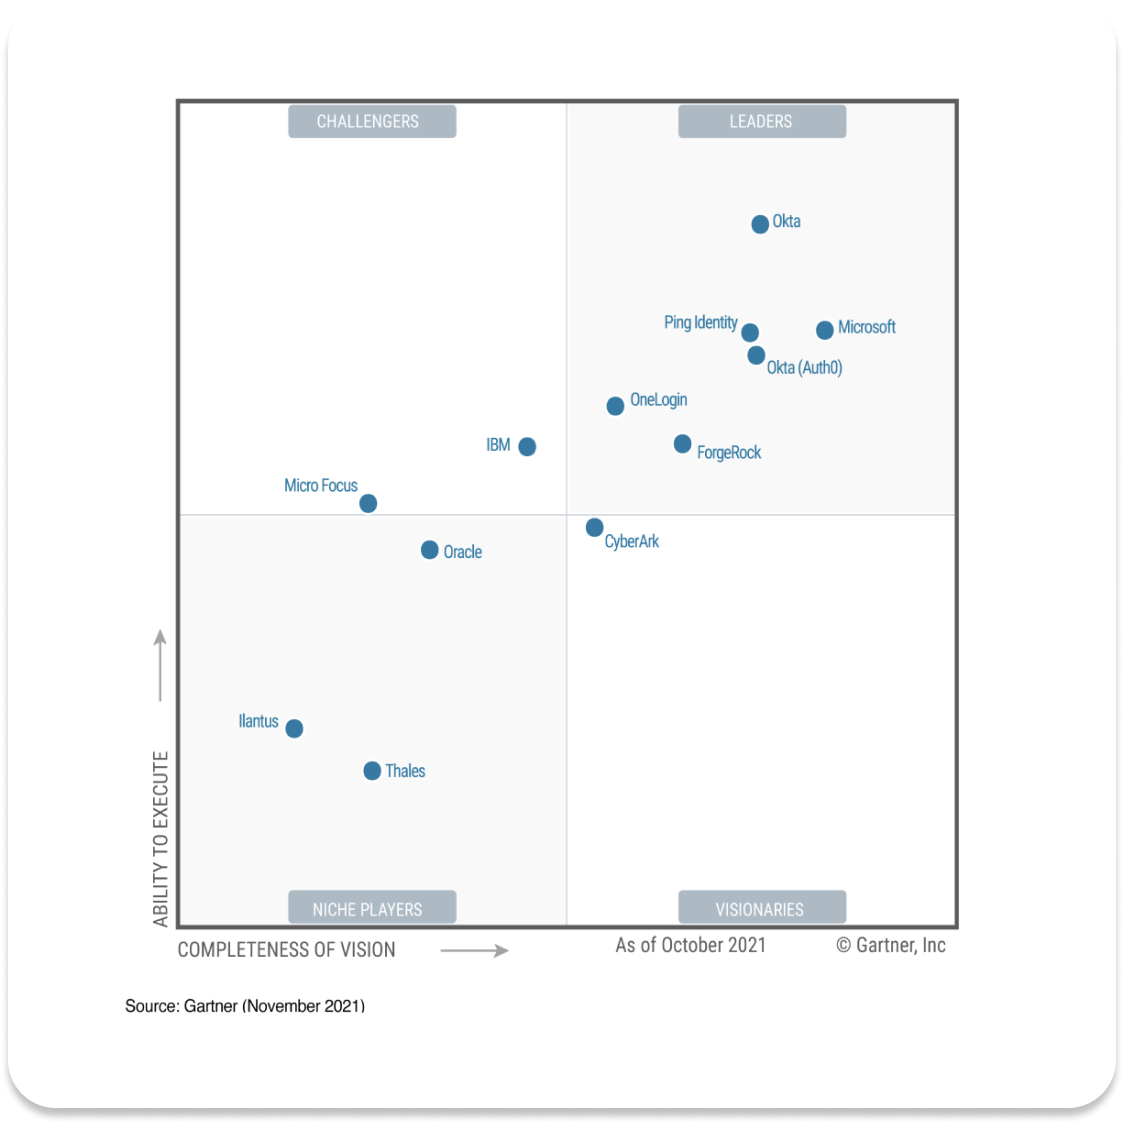
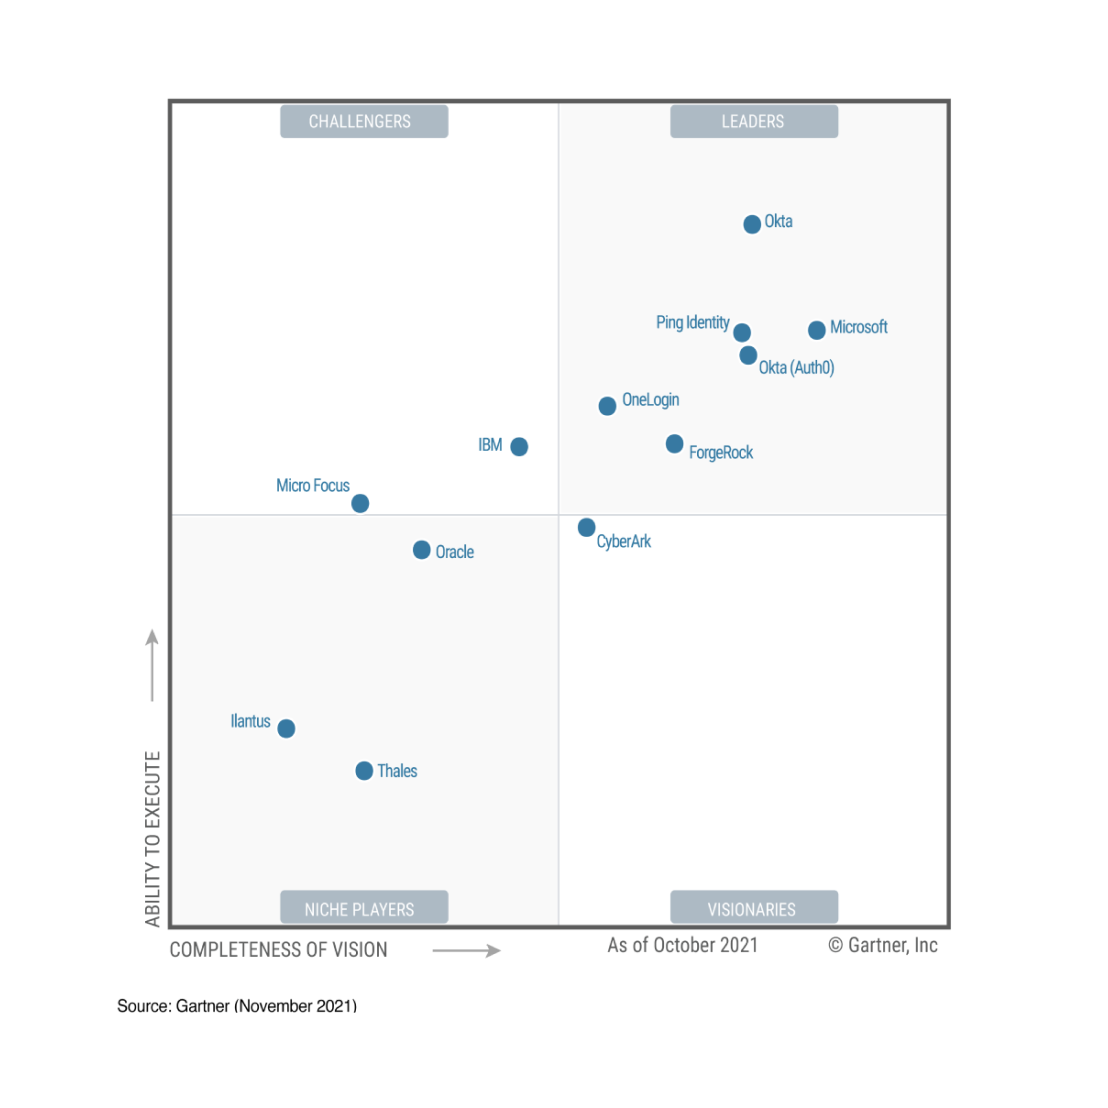
fin section-leader + adapted

diff --git a/src/index.html b/src/index.html
@@ -487,20 +487,20 @@
 
         </div>
         
-        <article class="ciam__information info-ciam">
-          <h3 class="info-ciam__title title title--fz48">It all starts with Customer Identity (CIAM)</h3>
-          <p class="info-ciam__text">
+        <article class="ciam__information info-block">
+          <h2 class="info-block__title title title--fz48">It all starts with Customer Identity (CIAM)</h2>
+          <p class="info-block__text">
             From improving customer experience through seamless sign-on to making MFA as easy as a click of a button – your login box must find the right balance between user convenience, privacy and security.<br><br>
         
             That’s why Okta and Auth0 have joined forces. Because we know together we can help you build a better <a href="#">Customer Identity (CIAM)</a> solution that will reduce security and compliance risks, improve your UX, and help your developers maximize their time.
           </p>
-          <div class="info-ciam__buttons">
-            <a href="" class="info-ciam__btn buttons__contact buttons">Start building
+          <div class="info-block__buttons">
+            <a href="" class="info-block__btn buttons__contact buttons">Start building
               <svg class="buttons__icon-arrow buttons__icon-arrow--white">
                 <use xlink:href="#arrow-right-s"></use>
               </svg>
             </a>
-            <a href="" class="info-ciam__btn buttons__white buttons">Learn more
+            <a href="" class="info-block__btn buttons__white buttons">Learn more
               <svg class="buttons__icon-arrow buttons__icon-arrow--black">
                 <use xlink:href="#arrow-right-s"></use>
               </svg>
@@ -521,8 +521,33 @@
         <video class="implement__video" preload="auto" no-controls autoplay loop playsinline muted>
           <source autoplay src="./assets/video/desktop.webm" type="video/webm">
         </video>
+      </div>      
+    </section>
+
+    <section class="main__leader leader">
+      <div class="leader__container container">
+        <div class="leader__block">
+          
+          <article class="leader__information info-block">
+            <img class="info-block__logo" src="./assets/svg/logo.svg" alt="logo">
+            <h2 class="info-block__title title title--fz48">Okta (Auth0) named a leader in Gartner® Magic Quadrant™ for Access Management</h2>
+          <p class="info-block__text">
+            Get Gartner’s 2021 overview of leading Access Management vendors
+          </p>
+          <div class="info-block__buttons">
+            <a href="" class="leader__button info-block__btn buttons__contact buttons">Learn more
+              <svg class="buttons__icon-arrow buttons__icon-arrow--white">
+                <use xlink:href="#arrow-right-s"></use>
+              </svg>
+            </a>
+          </div>
+          
+          </article>
+          <div class="leader__image">
+            <img src="./assets/images/leader.png" alt="leader">
+          </div>
+        </div>
       </div>
-      
       
     </section>
 

diff --git a/src/scss/blocks/_leader.scss b/src/scss/blocks/_leader.scss
@@ -1,0 +1,53 @@
+@use '../components/utils' as u;
+
+
+.leader {
+    //background: url(https://cdn.auth0.com/website/gartner/bg-desktop.svg) center center / cover no-repeat rgb(218, 223, 232);
+    background: linear-gradient(to right, #8377F3 0%, #e02cbf 19%, #8377F3 40%, #8377F3 60%, #e02cbf 83%, #8377F3 100%);
+    background-size: 200% 100%;
+    animation: bg 15s linear infinite;
+    padding: 130px 0px;
+    max-width: 1440px;
+    margin: 0 auto;
+    border-radius: 40px;
+    @include u.media('tablet-wide', max){
+        padding: 30px 0px;
+    }
+    &__container {
+        @include u.media('tablet-wide', max){
+            padding-left: 0;
+            padding-right: 0;
+        } 
+    }
+
+    &__block {
+        display: flex;
+        flex-direction: row;
+        align-items: center;
+        justify-content: space-between;
+        @include u.media('tablet-wide', max){
+            flex-direction: column;
+        }
+    }
+
+    &__information {
+        @include u.media('phone-wide', max){
+            margin-bottom: 56px;
+        }
+    }
+    &__button {
+        @include u.media('tablet-wide', max){
+            width: 100%;
+        }
+    }
+    &__image {
+        width: 554px;
+        height: 554px;
+        @include u.padding-hack(49%);
+        @include u.media('tablet-wide', max){
+            @include u.padding-hack(95%);
+            width: 90%;
+            
+        }
+    }
+}

diff --git a/src/scss/components/_animate.scss b/src/scss/components/_animate.scss
@@ -1,5 +1,58 @@
 @use 'utils' as u;
 
+//Slide ciam block
+@keyframes slide {
+    0% {
+        transform: translateX(0);
+    }
+
+    25% {
+        transform: translateX(0);
+    }
+
+    30% {
+        transform: translateX(-100%);
+    }
+
+    50% {
+        transform: translateX(-100%);
+    }
+
+    55% {
+        transform: translateX(-200%);
+    }
+
+    75% {
+        transform: translateX(-200%);
+    }
+
+    80% {
+        transform: translateX(-300%);
+    }
+
+    95% {
+        transform: translateX(-300%)
+    }
+
+    100% {
+        transform: translateX(0);
+    }
+}
+
+//========================================================================================================================================================
+
+//Bg-animation
+@keyframes bg{
+    0%{
+      background-position-x: 0;
+    }
+    
+    100%{
+      background-position-x: 200%;
+    }
+  }
+//========================================================================================================================================================
+
 // menu item animation
 @keyframes focus-in-expand-fwd {
     0% {

diff --git a/src/scss/blocks/_ciam.scss b/src/scss/blocks/_ciam.scss
@@ -83,45 +83,6 @@
     }
 }
 
-@keyframes slide {
-    0% {
-        transform: translateX(0);
-    }
-
-    25% {
-        transform: translateX(0);
-    }
-
-    30% {
-        transform: translateX(-100%);
-    }
-
-    50% {
-        transform: translateX(-100%);
-    }
-
-    55% {
-        transform: translateX(-200%);
-    }
-
-    75% {
-        transform: translateX(-200%);
-    }
-
-    80% {
-        transform: translateX(-300%);
-    }
-
-    95% {
-        transform: translateX(-300%)
-    }
-
-    100% {
-        transform: translateX(0);
-    }
-}
-
-
 .secondary-slider {
     width: 351px;
     background-color: #fff;

diff --git a/src/scss/blocks/_implement.scss b/src/scss/blocks/_implement.scss
@@ -2,8 +2,8 @@
 
 
 .implement {
-    padding-top: 40px;
-    margin-bottom: 40px;
+    padding-top: 70px;
+    padding-bottom: 70px;
 
     &__title {
         margin-bottom: 40px;
@@ -22,9 +22,10 @@
     }
     &__wrp {
         @include u.padding-hack(68%);
-    }
-    &__video {
-        
-        
+        @include u.media('desktop-wide'){
+            width: 1440px;
+            margin: 0 auto;
+            @include u.padding-hack(35%);
+        }
     }
 }

diff --git a/src/scss/blocks/_info-block.scss b/src/scss/blocks/_info-block.scss
@@ -1,10 +1,14 @@
 @use '../components/utils' as u;
 
-.info-ciam {
+.info-block {
     display: flex;
     flex-direction: column;
     align-items: flex-start;
     max-width: 480px;
+
+    &__logo {
+        margin-bottom: u.rem(48);
+    }
     @include u.media('desktop', max){
         max-width: 380px;
     }

diff --git a/src/scss/style.scss b/src/scss/style.scss
@@ -18,8 +18,9 @@
 @use './blocks/desc-hero';
 @use './blocks/partners';
 @use './blocks/ciam';
-@use './blocks/info-ciam';
+@use './blocks/info-block';
 @use './blocks/implement';
+@use './blocks/leader';
 
 
 
